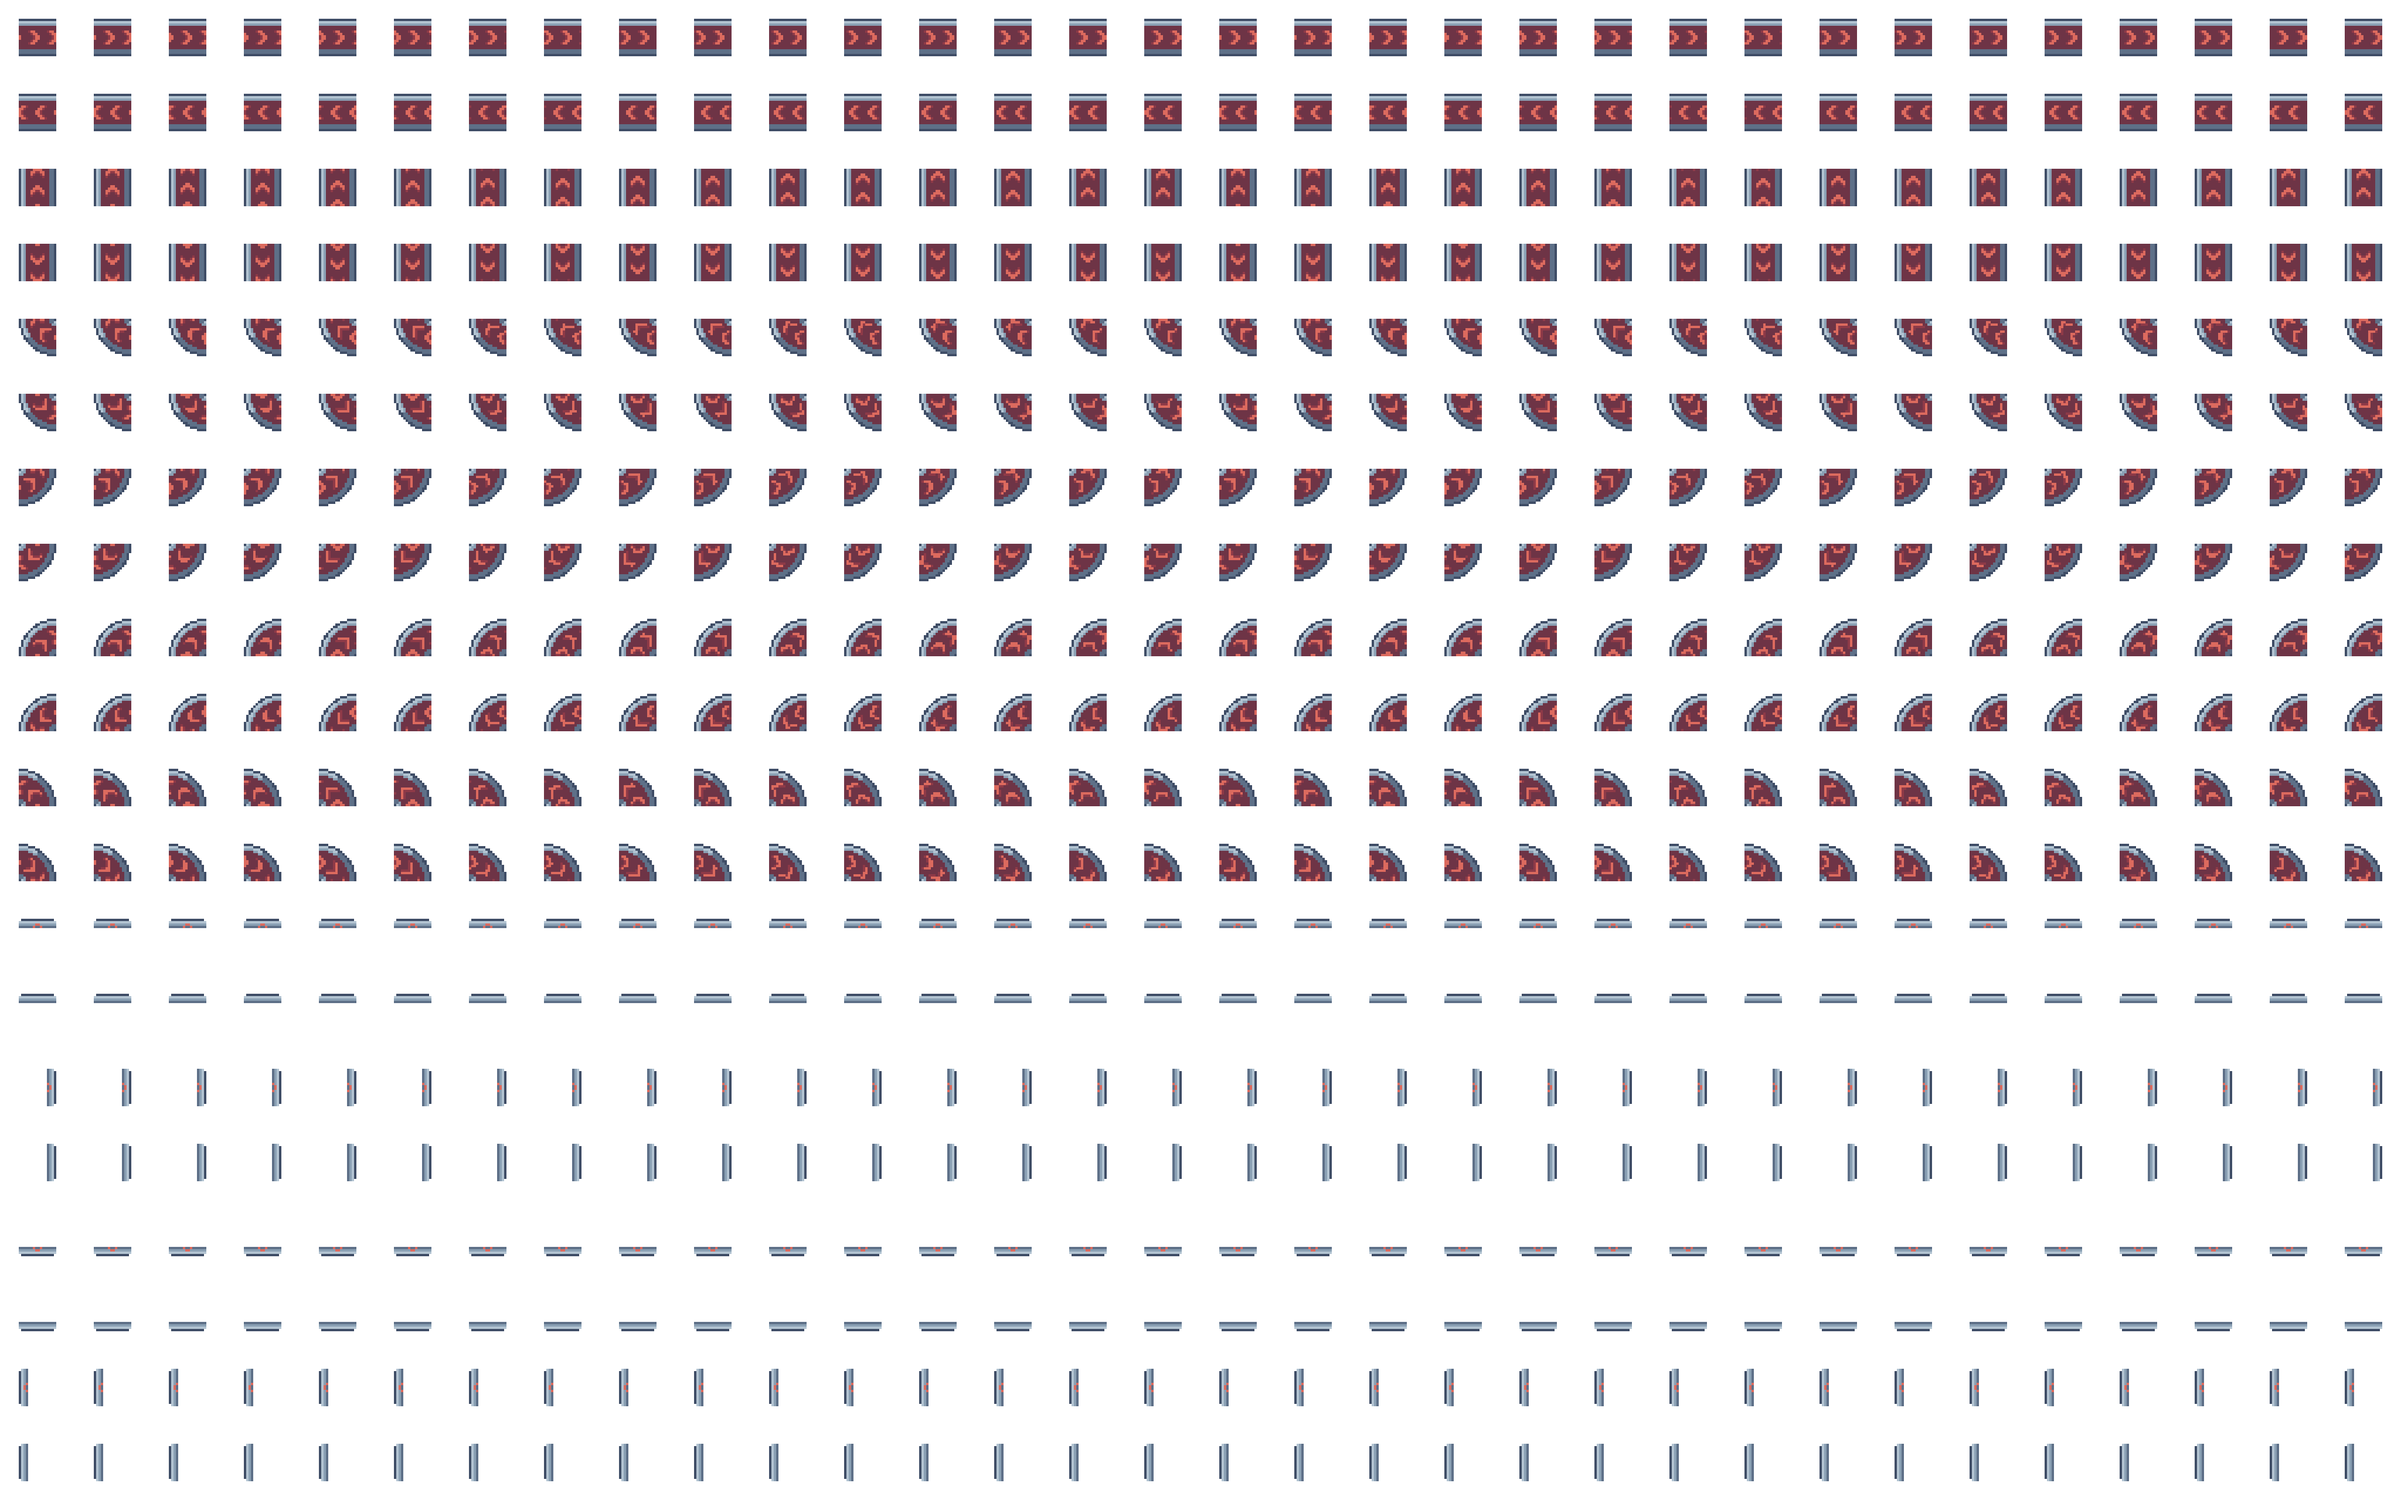
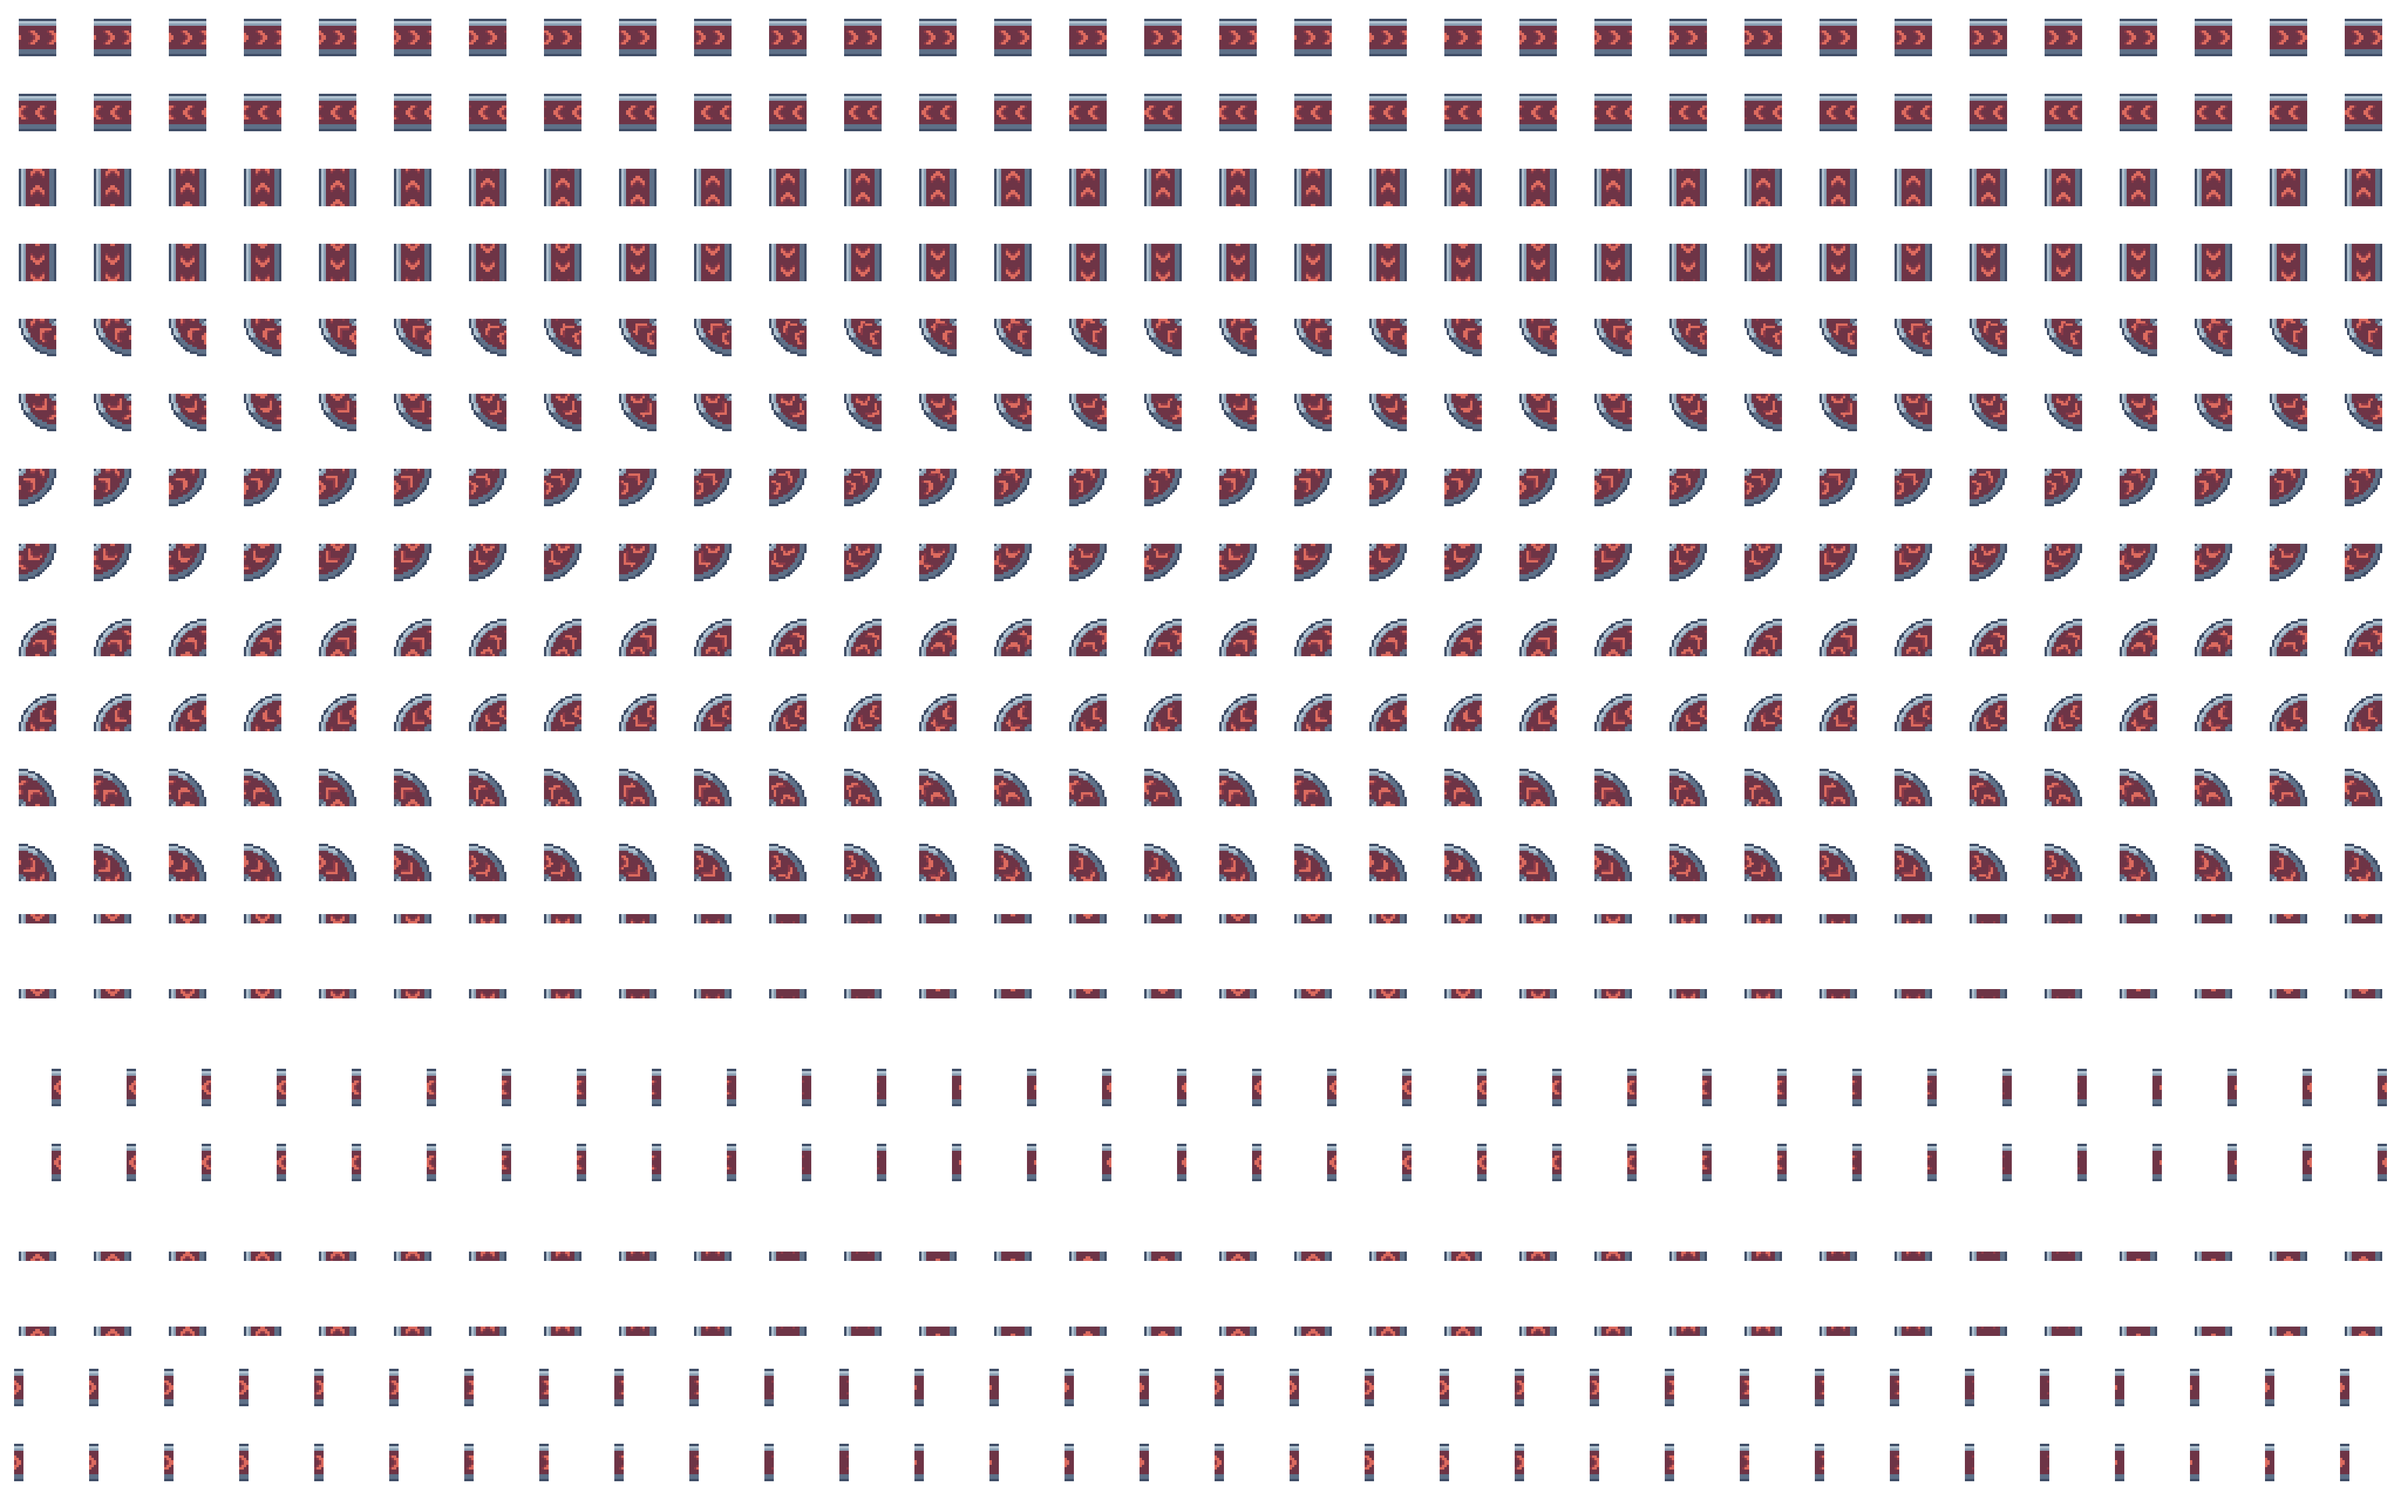
Pixel : souterrains repris de zéro d'après Factorio (capot pleine case) et capuchons de tapis animés

diff --git a/pixel/pillow/belt_structures.py b/pixel/pillow/belt_structures.py
@@ -76,11 +76,14 @@ def add_face(img, mask):
 
 
 # ---------------------------------------------------------------- souterrain
-# Capot en voûte (demi-cylindre couché dans le sens du flux) : plaque bombée de la teinte vive du convoyeur du même niveau (chevrons de sa teinte foncée),
-# chevrons qui suivent le flux, anneau d'acier à rivets à chaque bout, face avant sombre (hauteur) et ombre portée.
-UG_LEN = 13        # longueur du capot dans le sens du flux : bout fermé 3, voûte 5, bouche 5 (px)
-UG_WIDTH = 14      # largeur en travers (px)
+# Comme dans Factorio, le capot couvre toute la case : une voûte (demi-cylindre couché dans le sens du flux) dont la
+# plaque porte des chevrons, avec un anneau d'acier à rivets à chaque bout. Le bout enterré est fermé ; du côté du
+# tapis, une porte sombre laisse voir le chevron du tapis qui entre ou qui sort (entrée et sortie sont des miroirs).
+# La plaque a la teinte vive du convoyeur du même niveau, les chevrons sa teinte foncée.
+UG_LEN = 16        # longueur du capot dans le sens du flux : bout fermé 3, voûte 9, porte 4 (px)
+UG_WIDTH = 16      # largeur en travers (px)
 FACE = 3           # hauteur de la face avant (px)
+DOOR_HALF = (0, 6.5, 5.5, 4.5)       # demi-largeur de la porte selon la profondeur depuis le bord (px)
 
 
 def tile_coords(direction, x, y):
@@ -94,49 +97,46 @@ def darken(c, f):
 
 
 def underground_cell(direction, entering, tier):
-    """Cellule de 48 x 48 px d'art ; la case occupe [16, 32[. Le capot est collé du côté enterré."""
+    """Cellule de 48 x 48 px d'art ; la case occupe [16, 32[."""
     light, dark = BELT[tier]
     base = belt.BASE[tier]
     horiz = direction in "EW"
     img = Image.new("RGBA", (48, 48), (0, 0, 0, 0))
     hood = Image.new("L", (48, 48), 0)
-    s0 = (belt.T - UG_LEN) if entering else 0
-    out_n = FLOW[direction] if entering else (-FLOW[direction][0], -FLOW[direction][1])   # normale du bout enterré
-    in_n = (-out_n[0], -out_n[1])                                                          # normale du bout côté tapis
+    fl = FLOW[direction]
+    out_n = fl if entering else (-fl[0], -fl[1])        # normale du bout enterré
+    in_n = (-out_n[0], -out_n[1])                       # normale du bout côté tapis
     for ty in range(belt.T):
         for tx in range(belt.T):
-            s, lat = tile_coords(direction, tx, ty)
-            if not (s0 <= s < s0 + UG_LEN and abs(lat) < UG_WIDTH / 2):
-                continue
-            u = s - s0                                   # 0 à UG_LEN, dans le sens du flux
-            d_ug = (UG_LEN - u) if entering else u       # distance au bout enterré
+            u, lat = tile_coords(direction, tx, ty)
+            d_ug = (UG_LEN - u) if entering else u        # distance au bout enterré (0 = au bord)
             d_belt = UG_LEN - d_ug
-            lat_abs = (ty + 0.5 - 8) if horiz else (tx + 0.5 - 8)    # axe transversal absolu : la lumière vient du haut gauche
+            lat_abs = (ty + 0.5 - 8) if horiz else (tx + 0.5 - 8)    # axe transversal absolu : lumière en haut à gauche
             x, y = tx + 16, ty + 16
             hood.putpixel((x, y), 255)
-            if abs(lat) > UG_WIDTH / 2 - 1:
-                c = P["steel_dark"]                                    # flancs : contour
-            elif d_ug < 3:                                             # bout fermé (côté enterré) : mur plein à rivets
+            if abs(lat) > 7:
+                c = P["steel_dark"]                                   # contour des flancs
+            elif d_ug < 3:                                            # bout fermé : anneau plein à rivets
                 c = belt.shade(d_ug, out_n)
-                if d_ug >= 2 and abs(lat) in (1.5, 4.5):
+                if d_ug >= 1 and abs(lat) in (1.5, 3.5, 5.5):
                     c = P["steel_light"]
-            elif d_belt < 5:                                           # bouche ouverte côté tapis
-                if d_belt < 1:
-                    c = belt.shade(d_belt, in_n)                       # lèvre de l'ouverture
-                elif abs(lat) >= 4.5:
-                    c = belt.shade(1 + (abs(lat) - 4.5), (0, 0)) if abs(lat) < 5.5 else P["steel"]   # piédroits
+            elif d_belt < 4:                                          # côté tapis : lèvre puis porte
+                k = int(d_belt)
+                if k == 0:
+                    c = belt.shade(0, in_n)
+                elif abs(lat) >= DOOR_HALF[k]:
+                    c = belt.shade(k, in_n) if abs(lat) < DOOR_HALF[k] + 1 else P["steel"]   # piédroits
                 else:
-                    # intérieur du tunnel : de plus en plus sombre vers le bout fermé, avec le chevron du tapis
-                    k = d_belt - 1                                     # 0 (près de la lèvre) à 3 (au fond)
-                    f_ = (0.85, 0.6, 0.38, 0.22)[min(3, int(k))]
-                    u_tip = (3 if entering else UG_LEN - 2) + 1.5      # pointe du chevron, dans le sens du flux
-                    chev = abs(lat) < 2.6 and int(u) == int(u_tip - abs(lat) + 0.5)
-                    c = darken(light if chev else belt.BASE[tier], f_ if not chev else max(f_, 0.55))
+                    f_ = (0.85, 0.6, 0.35)[k - 1]                     # de plus en plus sombre vers l'intérieur
+                    u_tip = 3.5 if entering else UG_LEN - 3.5          # pointe du chevron, dans le sens du flux
+                    chev = abs(lat) < 3.2 and int(u) == int(u_tip - abs(lat) * 0.7)
+                    c = darken(light, max(f_, 0.6)) if chev else darken(base, f_)
+            elif abs(lat) > 6:                                        # bords de la voûte : arêtes éclairées / ombrées
+                c = P["steel_light"] if lat_abs < 0 else P["steel"]
             else:
-                # voûte : plaque de la teinte vive du niveau, chevrons de la teinte foncée ; plus sombre sur le flanc
-                # opposé à la lumière
-                shade = 1.0 if lat_abs < -3 else 0.88 if lat_abs < 3 else 0.7
-                ph = (u + abs(lat) * 0.55) % 6
+                # voûte : lumineuse du côté de la lumière, plus sombre du côté opposé
+                shade = 1.0 if lat_abs < -3 else 0.9 if lat_abs < 2 else 0.78 if lat_abs < 5 else 0.62
+                ph = (u + abs(lat) * 0.5) % 5
                 c = darken(dark, shade) if ph < 2 else darken(light, shade)
             img.putpixel((x, y), c)
     # hauteur : face avant sur FACE px sous le bord sud du capot

diff --git a/pixel/pillow/belt.py b/pixel/pillow/belt.py
@@ -98,27 +98,28 @@ def piece(row, frame, tier):
             if c:
                 img.putpixel((x, y), c)
     if row >= 12:
-        side, variant = divmod(row - 12, 2)       # 0 haut, 1 droite, 2 bas, 3 gauche
-        cap = Image.new("RGBA", (T, T), (0, 0, 0, 0))
-        for y in range(4):
-            for x in range(T):
-                if y == 0:
-                    c = P["steel_dark"]
-                elif y == 1:
-                    c = P["steel_light"]
-                elif y == 2:
-                    c = P["steel_mid"]
-                else:
-                    c = P["steel"]
-                if y == 0 and x in (0, T - 1):
-                    continue
-                cap.putpixel((x, y), c)
-        if variant == 0:                          # chevron du début, pointe vers l'extérieur
-            light, dark = BELT[tier]
-            for x, y in ((7, 2), (8, 2), (6, 3), (9, 3)):
-                cap.putpixel((x, y), light)
-        # le capuchon est dessiné côté haut puis tourné : droite = 90° horaire, bas = 180°, gauche = 270°
-        img = cap.rotate(-90 * side, expand=False)
+        return cap_piece(row, frame, tier)
+    return img
+
+
+# Capuchons (rangées 12 à 19) : la partie du tapis qui dépasse du capot d'un souterrain, au bord arrière de la case,
+# avec le chevron qui avance (animé comme le tapis). Deux rangées par bord (début / fin), même dessin.
+CAP_FLOW = [(0, 1), (0, 1), (-1, 0), (-1, 0), (0, -1), (0, -1), (1, 0), (1, 0)]     # sud, ouest, nord, est
+CAP_EDGE = [(0, -2), (0, -2), (14, 0), (14, 0), (0, 14), (0, 14), (-2, 0), (-2, 0)]  # début du bandeau (x, y) dans la case
+CAP_PAD = 2
+
+
+def cap_piece(row, frame, tier):
+    """Image de 20 x 20 : la case plus 2 px de marge ; (i, j) correspond au pixel (i - 2, j - 2) de la case."""
+    flow = CAP_FLOW[row - 12]
+    ex, ey = CAP_EDGE[row - 12]
+    img = Image.new("RGBA", (T + 2 * CAP_PAD, T + 2 * CAP_PAD), (0, 0, 0, 0))
+    horizontal = flow[0] == 0               # flux vertical : le bandeau est horizontal
+    for j in range(4):
+        for i in range(T):
+            x, y = (ex + i, ey + j) if horizontal else (ex + j, ey + i)
+            c = straight_pixel(x, y, flow, frame // 2, tier)
+            img.putpixel((x + CAP_PAD, y + CAP_PAD), c)
     return img
 
 
@@ -126,7 +127,8 @@ def sheet(tier, frames):
     out = Image.new("RGBA", (CELL * frames, CELL * 20), (0, 0, 0, 0))
     for row in range(20):
         for f in range(frames):
-            out.alpha_composite(piece(row, f, tier), (CELL * f + 8, CELL * row + 8))
+            pad = CAP_PAD if row >= 12 else 0
+            out.alpha_composite(piece(row, f, tier), (CELL * f + 8 - pad, CELL * row + 8 - pad))
     return out
 
 

diff --git a/pixel/STYLE.md b/pixel/STYLE.md
@@ -28,5 +28,5 @@ Référence pour tout sprite du mod pixel. Les couleurs vivent dans `pillow/pale
 - Voyant du moteur qui clignote : indique visuellement que la machine travaille. **[PROVISOIRE]**
 
 ## Structures de convoyeurs
-- Souterrain : capot en voûte de 14 px de large sur 13 de long, d'après les souterrains de Factorio. Entrée et sortie sont des miroirs l'une de l'autre : un bout fermé (mur plein à rivets) du côté enterré, une bouche ouverte du côté du tapis (tunnel qui s'assombrit avec le chevron du tapis qui entre ou qui sort), entre les deux une voûte à plaque de la teinte vive du convoyeur du même niveau et chevrons foncés. Face avant sombre de 3 px et ombre portée. **[PROVISOIRE, à juger en jeu]**
+- Souterrain : refait sur le modèle de Factorio. Le capot couvre toute la case : voûte (demi-cylindre couché dans le sens du flux) à plaque de la teinte vive du convoyeur du même niveau et chevrons foncés qui épousent la courbure, anneau d'acier à rivets à chaque bout, face avant sombre de 3 px, ombre portée. Bout fermé côté enterré, porte sombre avec le chevron du tapis côté tapis : entrée et sortie sont des miroirs. Le bord arrière de la case porte un capuchon du tapis (rangées 12 à 19 de la planche) avec un chevron animé, dans les deux variantes début et fin. **[PROVISOIRE, à juger en jeu]**
 - Répartiteur : poteaux d'extrémité, cloison avec nez diviseur côté entrée, rail à trois engrenages (acier, moyeu orange) qui tournent, capots à chevrons de la couleur du niveau côté sortie, deux voyants qui clignotent en alternance. **[PROVISOIRE]**
